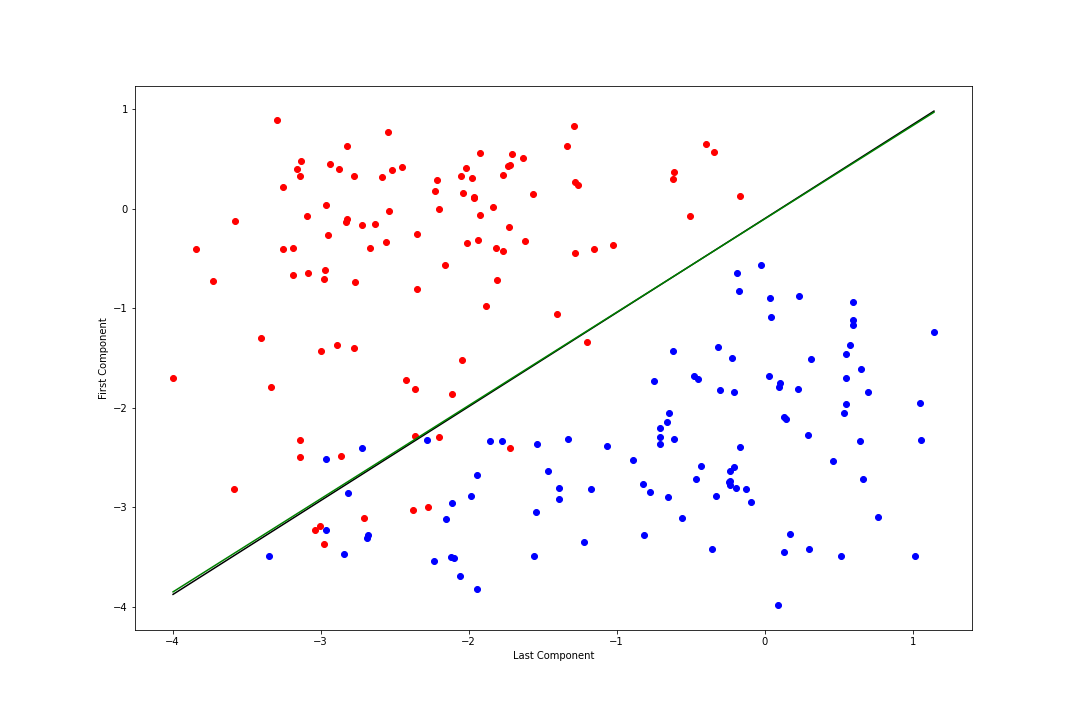
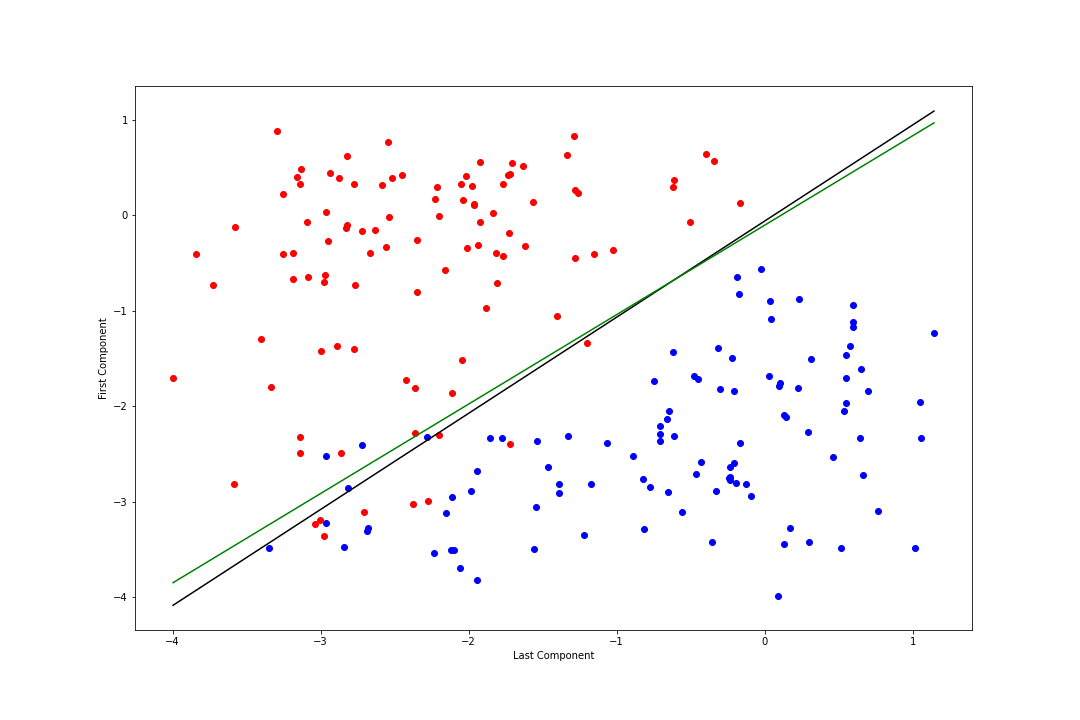
Add evaluation method

diff --git a/Version 2/CSP.py b/Version 2/CSP.py
@@ -254,7 +254,7 @@ class CSP():
             
         return PSD_trial, freq_list
     
-    def trainClassifier(self, n_features = 1, train_ratio = 0.75, classifier = None):
+    def trainClassifier(self, n_features = 1, train_ratio = 0.75, classifier = None, print_var = False):
         """
         Divide the data in train set and test set and used the data to train the classifier.
 
@@ -285,8 +285,8 @@ class CSP():
         
         # Create the label vector
         label = np.zeros(data_matrix.shape[0])
-        label[0:features_1.shape[0]] = 1
-        label[features_1.shape[0]:] = 2
+        label[0:features_1.shape[0]] = -1
+        label[features_1.shape[0]:] = 1
         self.tmp_label = label
         
         # Shuffle the data
@@ -310,15 +310,15 @@ class CSP():
         
         # Train Classifier
         self.classifier.fit(train_data, train_label)
-        print("Accuracy on TRAIN set: ", self.classifier.score(train_data, train_label))
+        if(print_var): print("Accuracy on TRAIN set: ", self.classifier.score(train_data, train_label))
         
         # Test parameters
-        print("Accuracy on TEST set: ", self.classifier.score(test_data, test_label), "\n")
+        if(print_var): print("Accuracy on TEST set: ", self.classifier.score(test_data, test_label), "\n")
         self.train_sklearn = True
         
         return self.classifier
     
-    def extractFeatures(self, n_features = 1):
+    def extractFeatures(self, n_features = 1, features = np.zeros(0)):
         """
         Extract the first n_features and the last n_features
 
@@ -326,26 +326,39 @@ class CSP():
         ----------
         n_features : int, optional
             Number of features to extract from each side. The default is 2.
+            
+        features: numpy array, optional
+            When provided the function extract the features from this vector. This parameter is only provided when the function is used to classify unknow trial thorugh the evaluation() function.
 
         """
-        self.n_features = n_features
         
-        keys = list(self.features_dict.keys())
-        features_1_tmp = self.features_dict[keys[0]]
-        features_2_tmp = self.features_dict[keys[1]]
-        
-        if(n_features < 1 or n_features > features_1_tmp.shape[1]): n_features = 1
-        
-        features_1 = np.zeros((features_1_tmp.shape[0], n_features * 2))
-        features_2 = np.zeros((features_2_tmp.shape[0], n_features * 2))
+        if(features.shape[0] == 0):
+            self.n_features = n_features
+            
+            keys = list(self.features_dict.keys())
+            features_1_tmp = self.features_dict[keys[0]]
+            features_2_tmp = self.features_dict[keys[1]]
+            
+            if(n_features < 1 or n_features > features_1_tmp.shape[1]): n_features = 1
+            
+            features_1 = np.zeros((features_1_tmp.shape[0], n_features * 2))
+            features_2 = np.zeros((features_2_tmp.shape[0], n_features * 2))
+        else:
+            features_1 = np.zeros((1, n_features * 2))
+            features_1_tmp = features
 
         for i in range(n_features):
             features_1[:, i] = features_1_tmp[:, i]
             features_1[:, -(i + 1)] = features_1_tmp[:, -(i + 1)]
-            features_2[:, i] = features_2_tmp[:, i]
-            features_2[:, -(i + 1)] = features_2_tmp[:, -(i + 1)]
-
-        return features_1, features_2
+            if(features.shape[0] == 0):
+                features_2[:, i] = features_2_tmp[:, i]
+                features_2[:, -(i + 1)] = features_2_tmp[:, -(i + 1)]
+        
+        if(features.shape[0] == 0):
+            return features_1, features_2
+        else: 
+            return features_1
+    
     
     def trainLDA(self, n_features = 1):
         """
@@ -368,6 +381,43 @@ class CSP():
         
         self.train_LDA = True
         
+        
+    def evaluate(self, trial, filt = True, mode = 1):
+        """
+        Evalaute a single trial. The dimension of the input must be "n. channels x n.samples"
+
+        Parameters
+        ----------
+        trial : Numpy 2D matrix
+            Input trial to evaluate.
+        filt : Boolean, optional
+            If true the siganl will be band-pass filtered between 8 and 15 Hertz. Otherwise the raw signal will be used. The default is True.
+        mode : int, optional
+            Decide if use the sklearn classifier or the handmade classifier. 1 for sklearn, 2 for the handmade The default is 1.
+
+        Returns
+        -------
+        y : int
+            Label of trial. The value of the two label can be "1" or "-1"
+
+        """
+        
+        if(filt): 
+            tmp_trial = np.expand_dims(trial, axis = 0)
+            trial = self.bandFilterTrials(tmp_trial, 8, 15)
+        
+        CSP_filtered_trial = np.expand_dims((self.W).dot(trial[0, :, :]), axis = 0)
+        features = self.logVarEvaluation(CSP_filtered_trial)
+        features = self.extractFeatures(n_features = self.n_features, features = features)
+
+        if(mode == 1 and self.train_sklearn):
+            y = self.classifier.predict(features)[0]
+        elif(mode == 2 and self.train_LDA):
+            y = np.sign((self.W1).dot(np.squeeze(features)) + self.b1)
+        else:
+            y = self.classifier.predict(features)[0]
+            
+        return int(y)
     
     def plotTrial(self, trial_label_class, trial_idx, ch_idx, figsize = (15, 10)):
         trials_matrix = self.trials_dict[trial_label_class]

diff --git a/Version 2/test_file.py b/Version 2/test_file.py
@@ -32,7 +32,6 @@ from sklearn.svm import SVC
 
 #%%
 tmp_string = 'abcdefg'
-# tmp_string = 'f'
 
 for idx in tmp_string:
 
@@ -59,9 +58,20 @@ for idx in tmp_string:
     # CSP_clf.plotFeatures()
     # CSP_clf.plotPSD(15, 12)
     
-    CSP_clf.trainClassifier()
+    CSP_clf.trainClassifier(print_var = True)
     CSP_clf.trainLDA()
     
     # CSP_clf.trainClassifier(classifier = SVC(kernel = 'linear'))
     
-    CSP_clf.plotFeaturesScatter('Plot', idx)
+    CSP_clf.plotFeaturesScatter()
+    
+    i = 79
+    for key in trials_dict.keys():
+        a = trials_dict[key][i, :, :]
+        y = CSP_clf.evaluate(a)
+        print(key, ' (sklearn):     ', y)
+        
+        y = CSP_clf.evaluate(a, mode = 2)
+        print(key, '(handmade):     ', y)
+    print("- - - - - - - - - - - - - - - - - - - - - - - -\n")
+    
